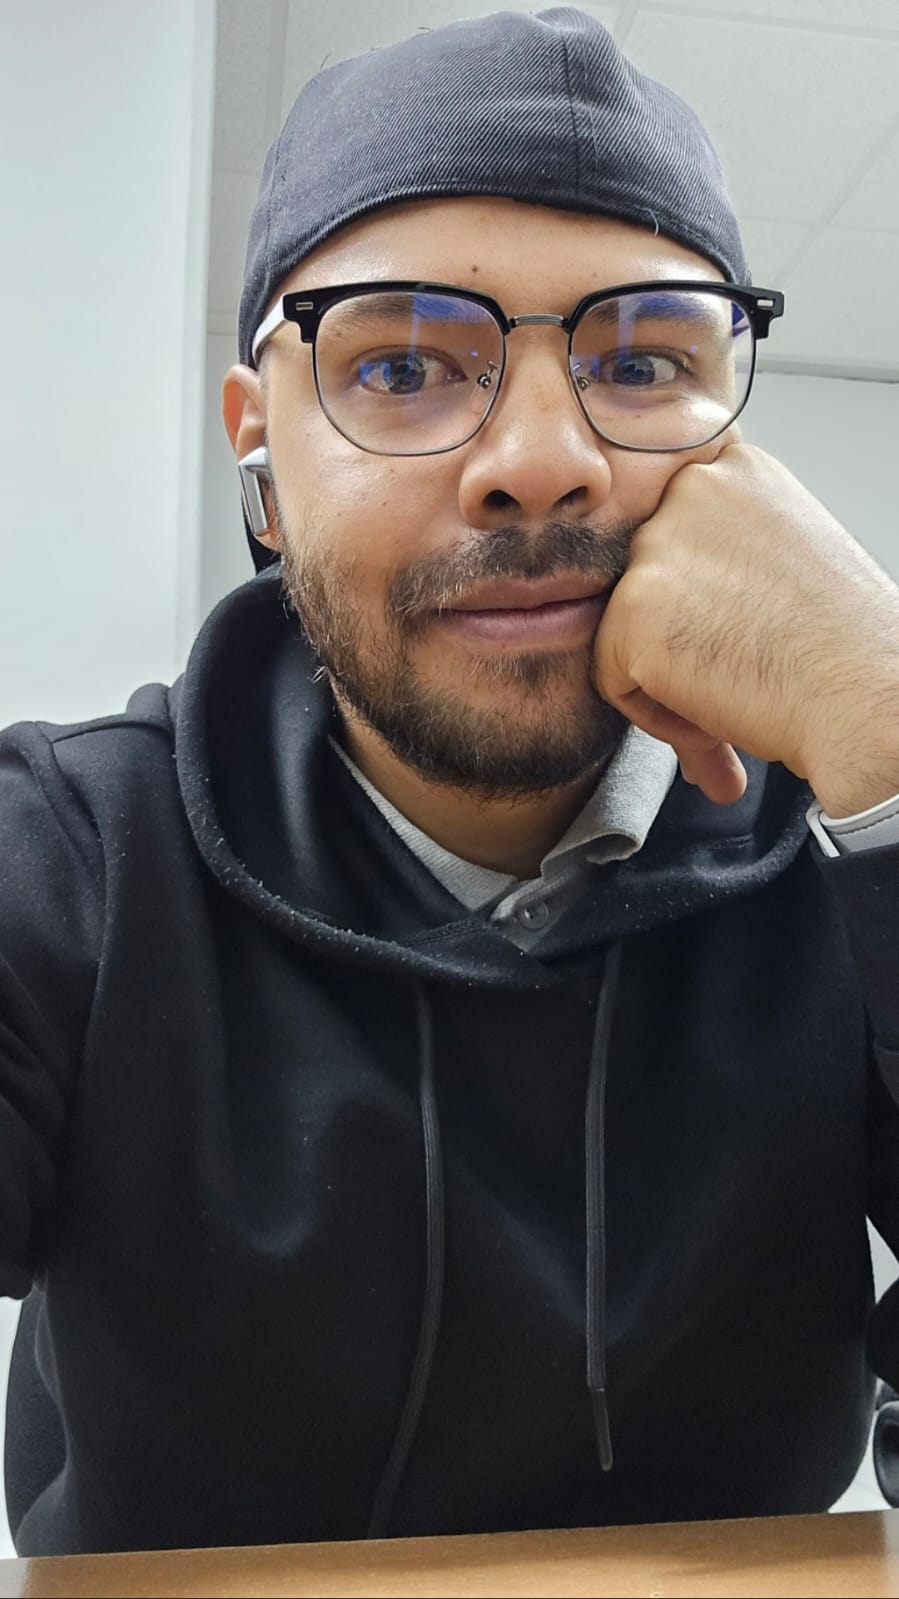
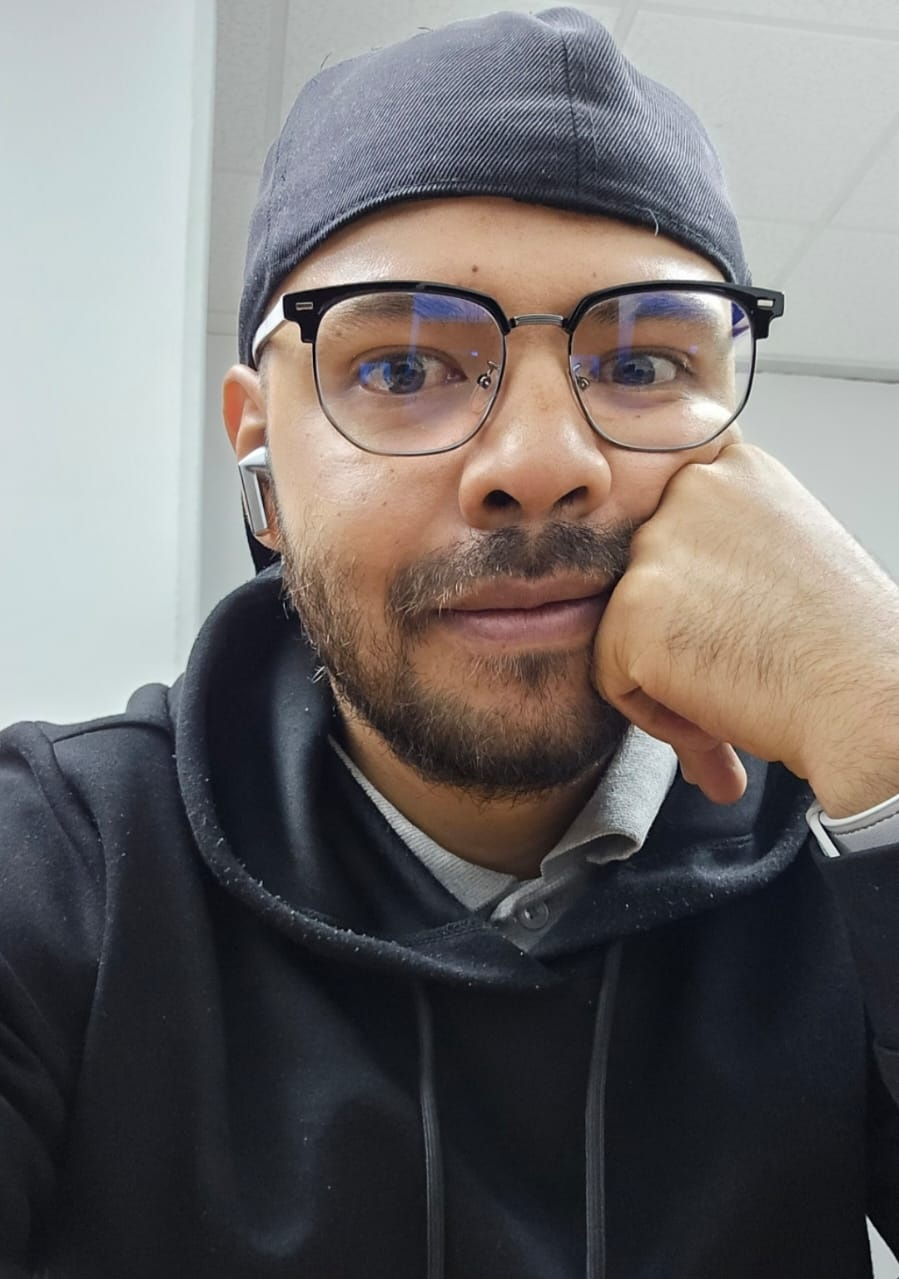
Responsive design, modificación de foto de perfil y diseño de la misma

diff --git a/src/styles/Hero.css b/src/styles/Hero.css
@@ -56,21 +56,12 @@ section {
     color: #fff;
     font-size: 15px;
     font-family: Arial, Helvetica, sans-serif;
-    border-radius: 50%;
+    border-radius: 50px;
     cursor: pointer;
     height: 45px;
     width: 130px;
 }
 
-/*    IMAGEN / FOTO DE PERFIL    */
-
-.profile-img {
-    display: block;
-    width: clamp(200px, 30vw, 300px);
-    aspect-ratio: 1 / 1;
-    object-fit: cover;
-    border-radius: 50px;
-}
 
 .nombre {
     background: linear-gradient(
@@ -88,54 +79,4 @@ section {
 .my-information {
     font-size: clamp(16px, 1.5vw, 20px);
     font-family: "Fraunces variable", serif;
-}
-
-
-/*   TABLETS Y MÓVILES   */
-
-@media (max-width: 768px) {
-
-    section {
-        flex-direction: column;
-        align-items: center;
-
-        gap: 40px;
-        padding: 40px 25px;
-    }
-
-    .left-section,
-    .right-section {
-        width: 100%;
-    }
-
-    .buttons-info {
-        justify-content: center;
-    }
-
-}
-
-
-/*    MÓVILES PEQUEÑOS    */
-
-@media (max-width: 480px) {
-
-    section {
-        padding: 30px 15px;
-        margin: 0;
-    }
-
-    .buttons-info {
-        flex-direction: column;
-        align-items: stretch;
-        gap: 12px;
-    }
-
-    .btn-portafolio,
-    .btn-write {
-        width: 100%;
-    }
-
-    img {
-        width: 200px;
-    }
 }
